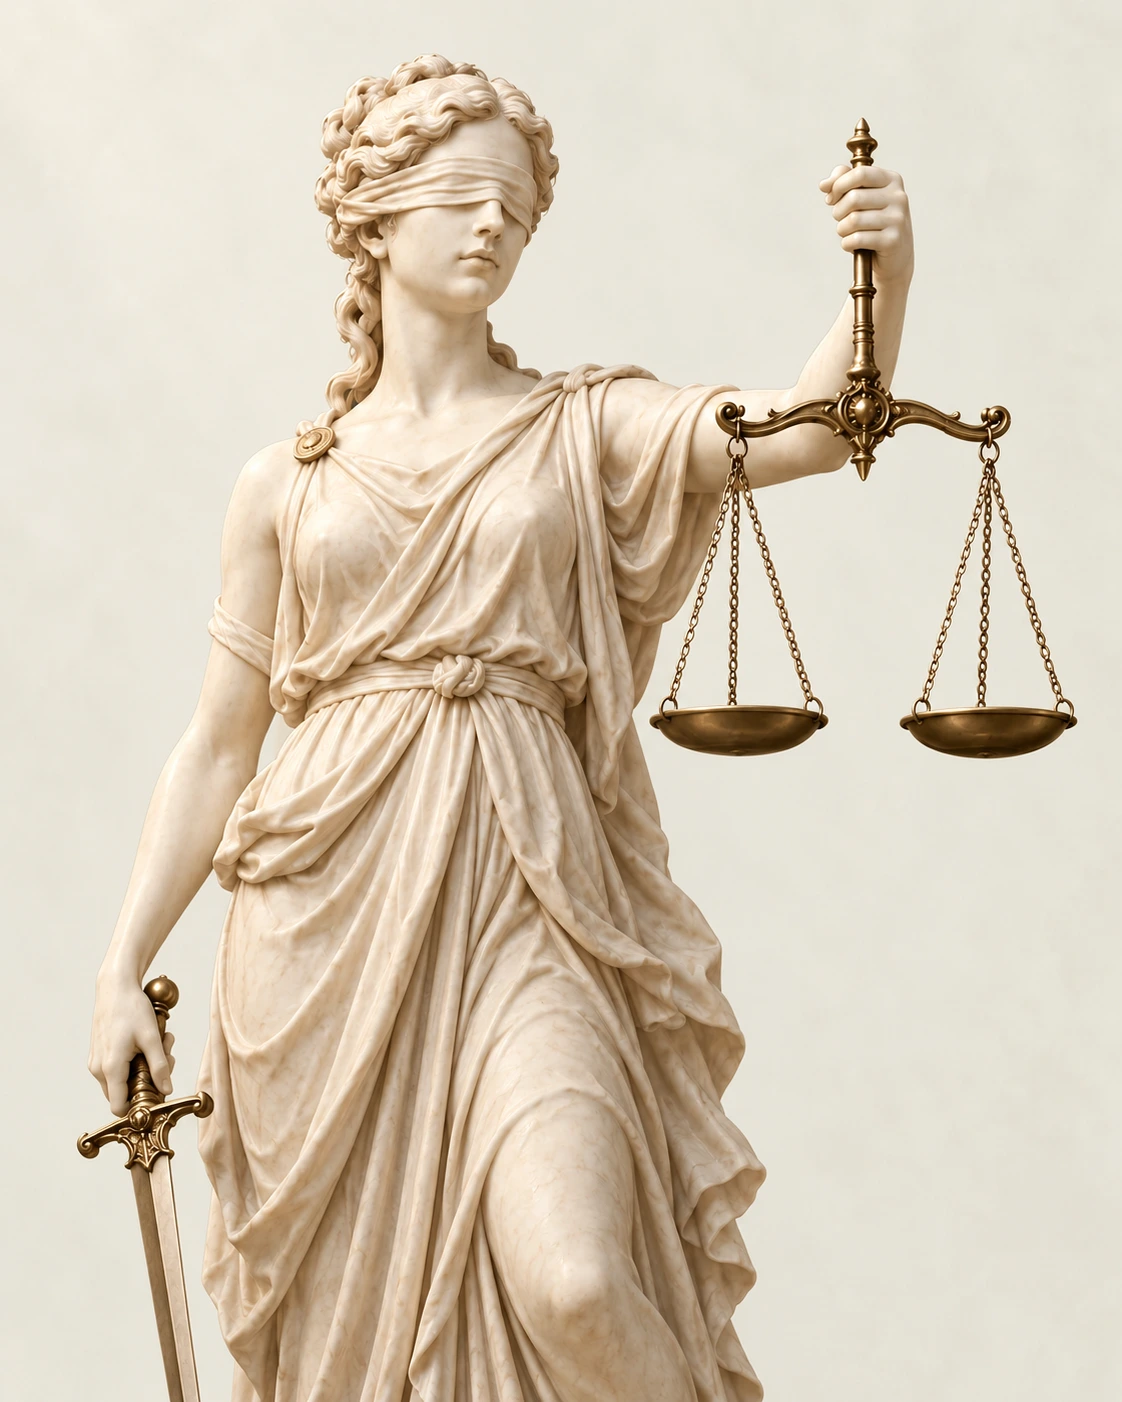
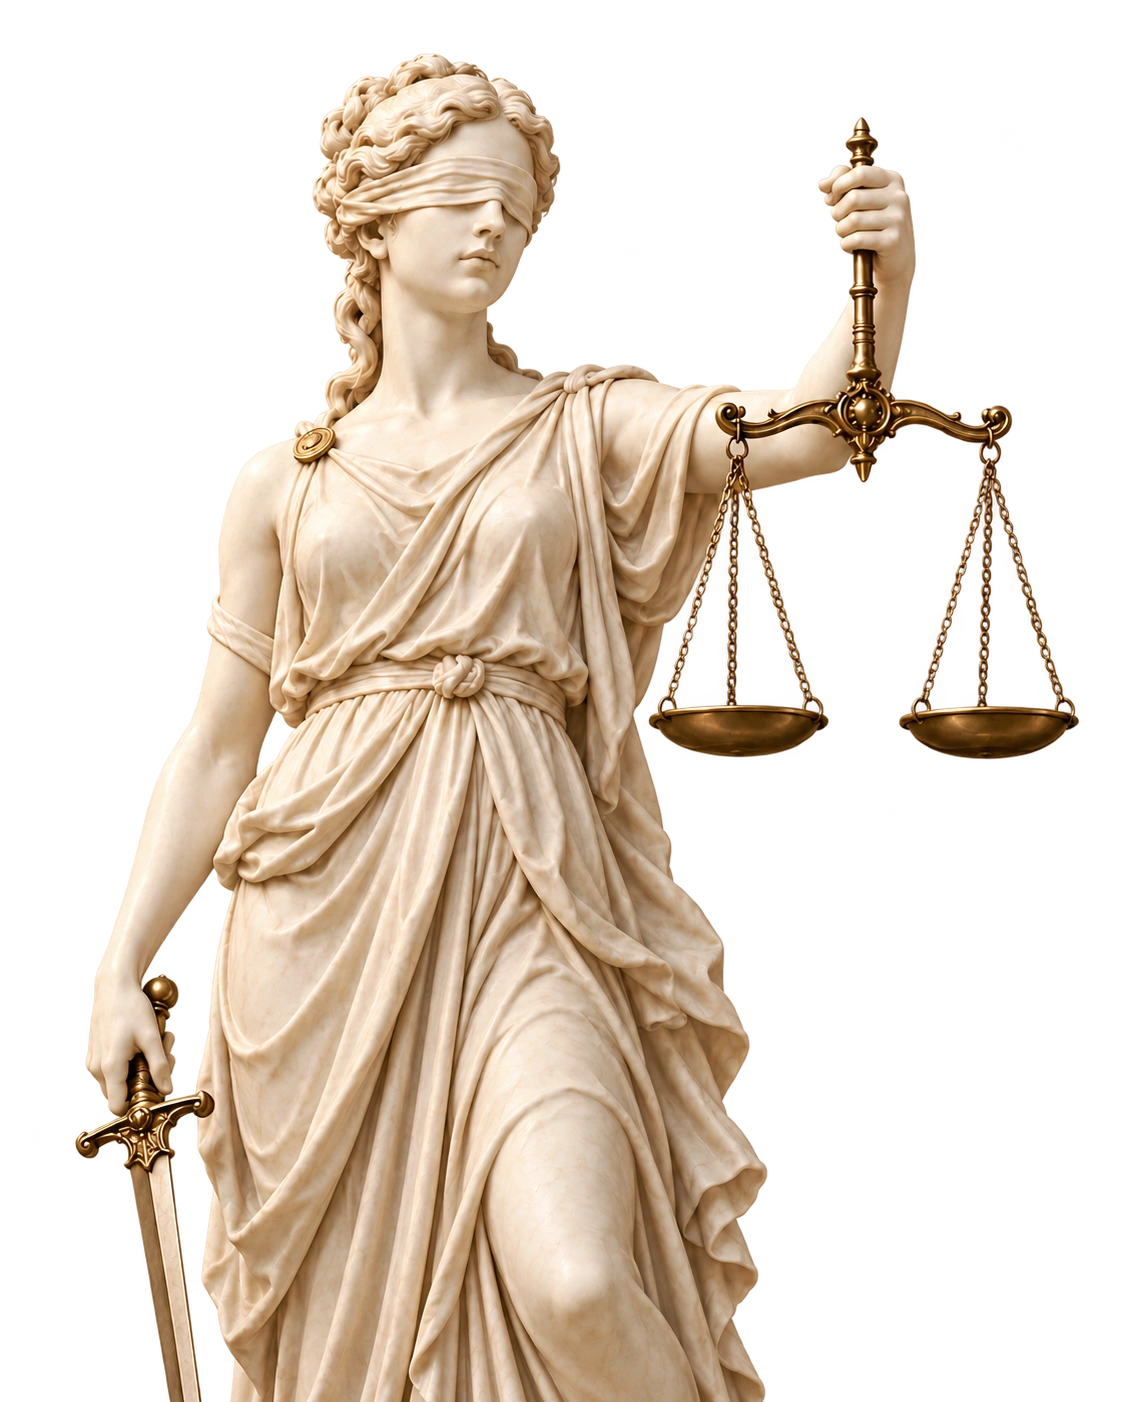
feat: remove Lady Justice background for transparent hero

diff --git a/front/src/components/Hero/Hero.css b/front/src/components/Hero/Hero.css
@@ -63,7 +63,7 @@
   min-height: 600px;
   position: relative;
   overflow: hidden;
-  background: var(--paper);
+  background: transparent;
   border-radius: 24px;
 }
 .hero-image {
@@ -72,7 +72,7 @@
   inset: 0;
   width: 100%;
   height: 100%;
-  object-fit: cover;
+  object-fit: contain;
   object-position: center;
 }
 .hero-bottom {

diff --git a/docs/assets/justice-hero.md b/docs/assets/justice-hero.md
@@ -14,3 +14,11 @@ Edited with the built-in image_gen tool. Background changed to warm ivory to mat
 ### Edit prompt
 
 Edit the referenced Lady Justice image. Change ONLY the background and lighting balance: replace the dark forest green background with a very light warm ivory / pale sage studio backdrop, approximately #f4f2eb to #e9ece2, with only subtle soft tonal variation, no dark patches. Keep the exact same marble woman, blindfold, facial features, pose, robes, brass balance scale, both pans, chains, sword, composition and portrait aspect ratio. Preserve all details and realistic materials. Gently soften harsh contrast so this feels airy, warm and refined on a light cream lawyer website, while the sculpture remains clearly defined and brass stays natural. No text, no logos, no border, no rounded corners baked into image (corners will be rounded in CSS).
+
+## Transparent cutout revision
+
+Background removed with the built-in image_gen tool. The project WebP preserves the alpha channel; the hero container is transparent and the image uses object-fit: contain.
+
+### Edit prompt
+
+Use case: background-extraction. Edit the supplied image by removing the entire light cream background and making it genuinely transparent with an alpha channel. Preserve the exact Lady Justice sculpture, her facial features, blindfold, hair, robe folds, pose, hands, sword, brass scales, both pans, and every fine chain. Preserve original warm ivory marble lighting and brass colors, original portrait composition and proportions. All empty spaces must be transparent, including between arm and torso, between the scales chains and around the sword. Clean accurate edges, no cream halo, no added shadows, no backdrop, no text, no checkerboard baked into the image. Output an actual transparent-background cutout.
